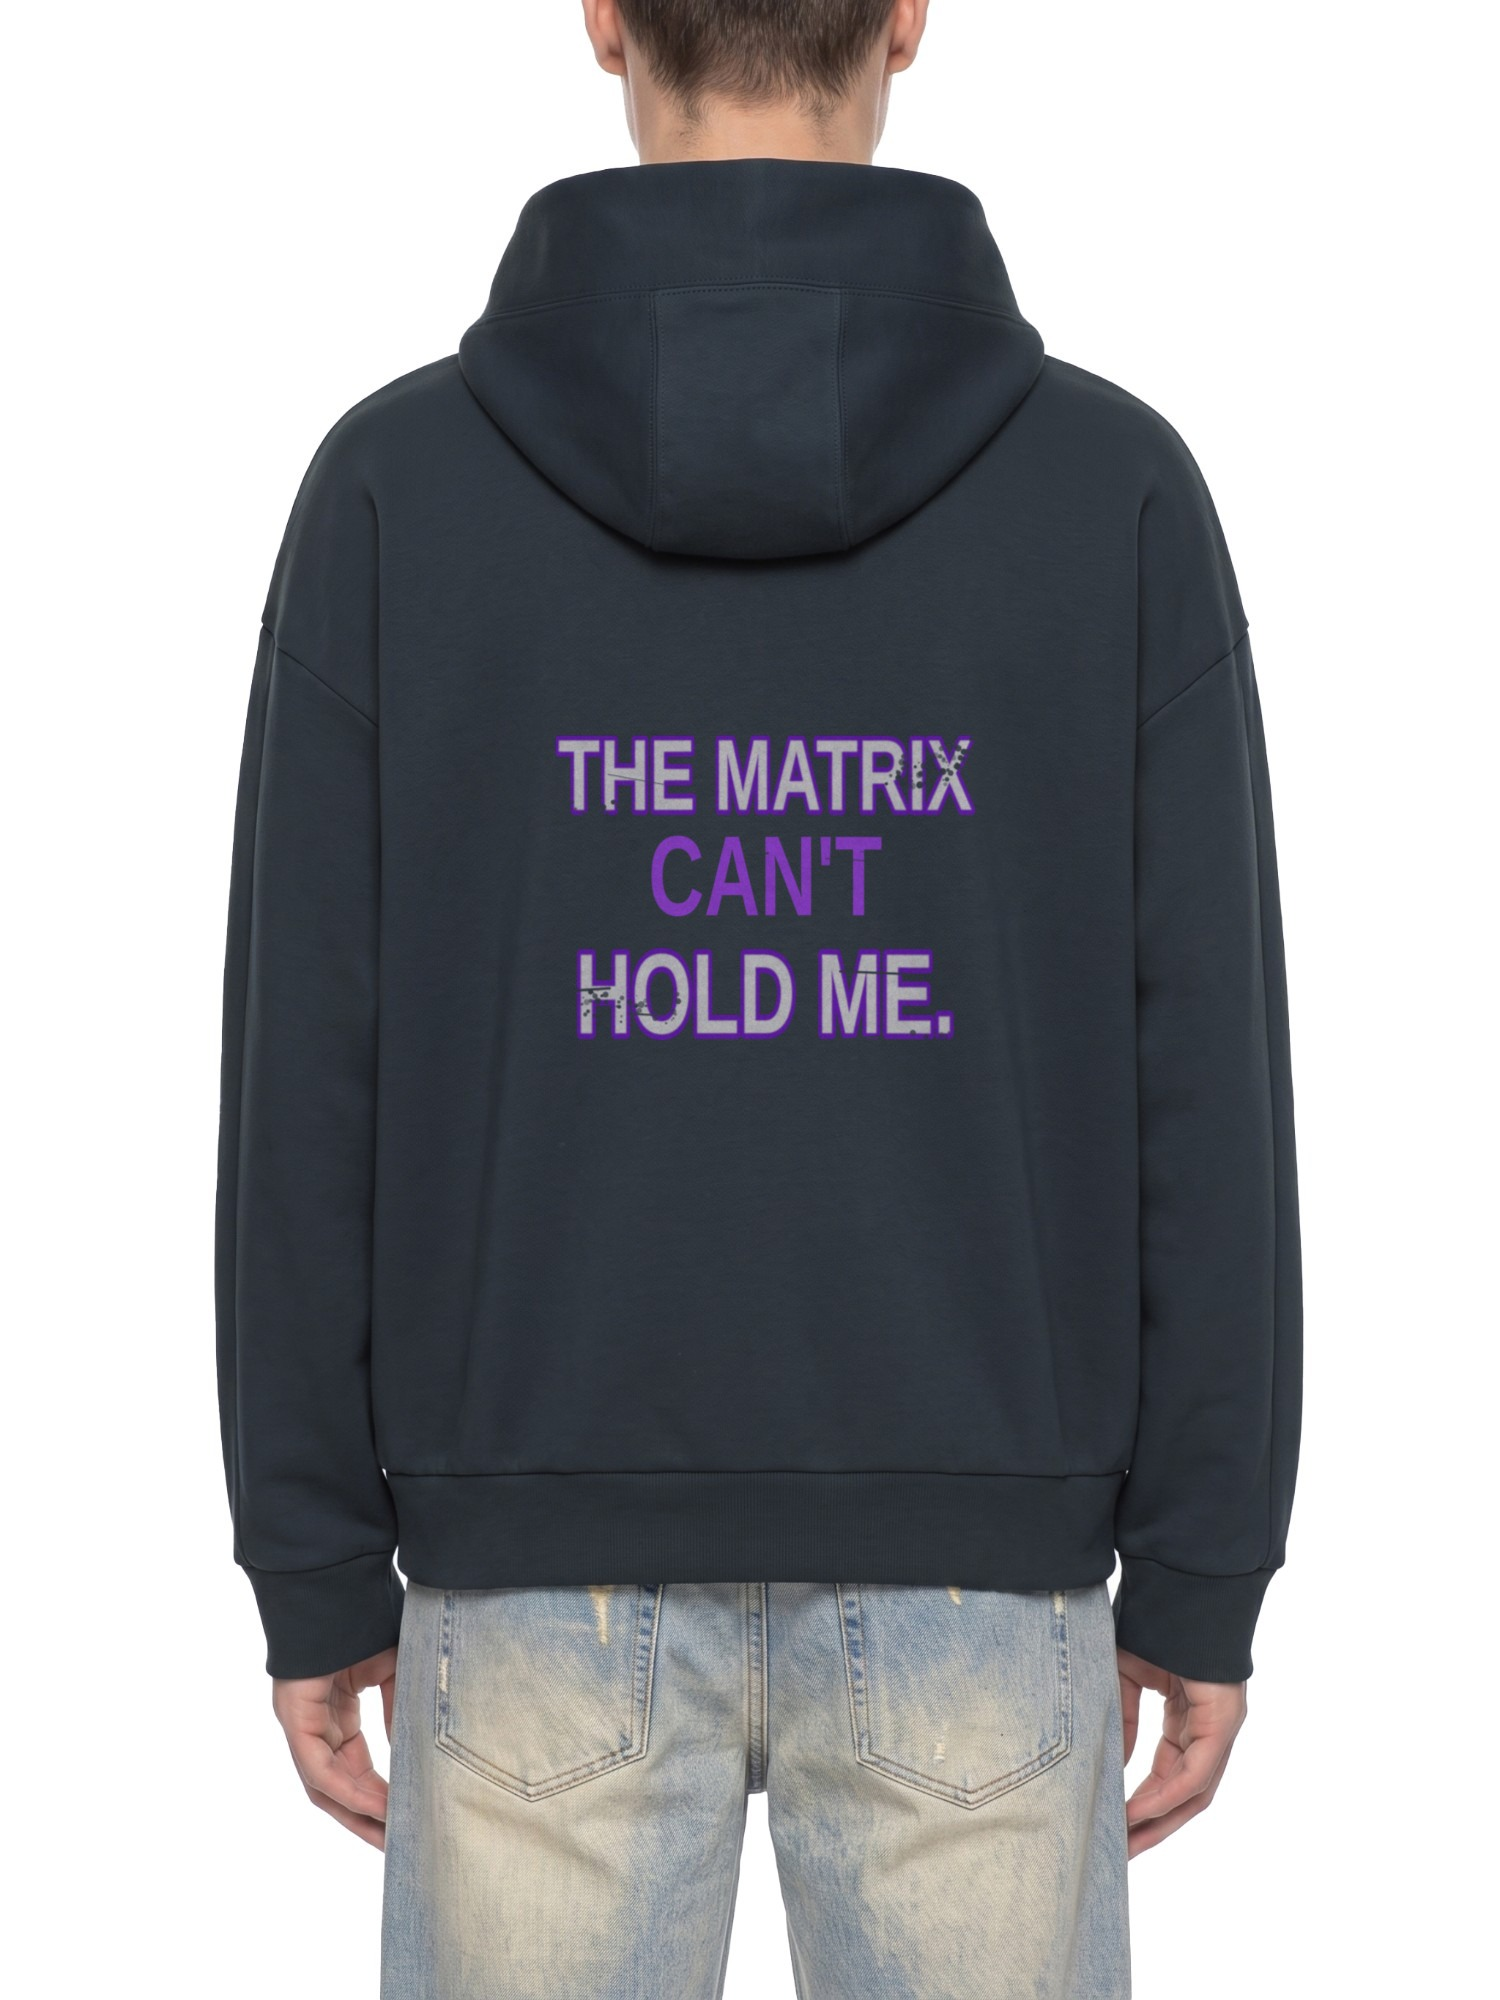
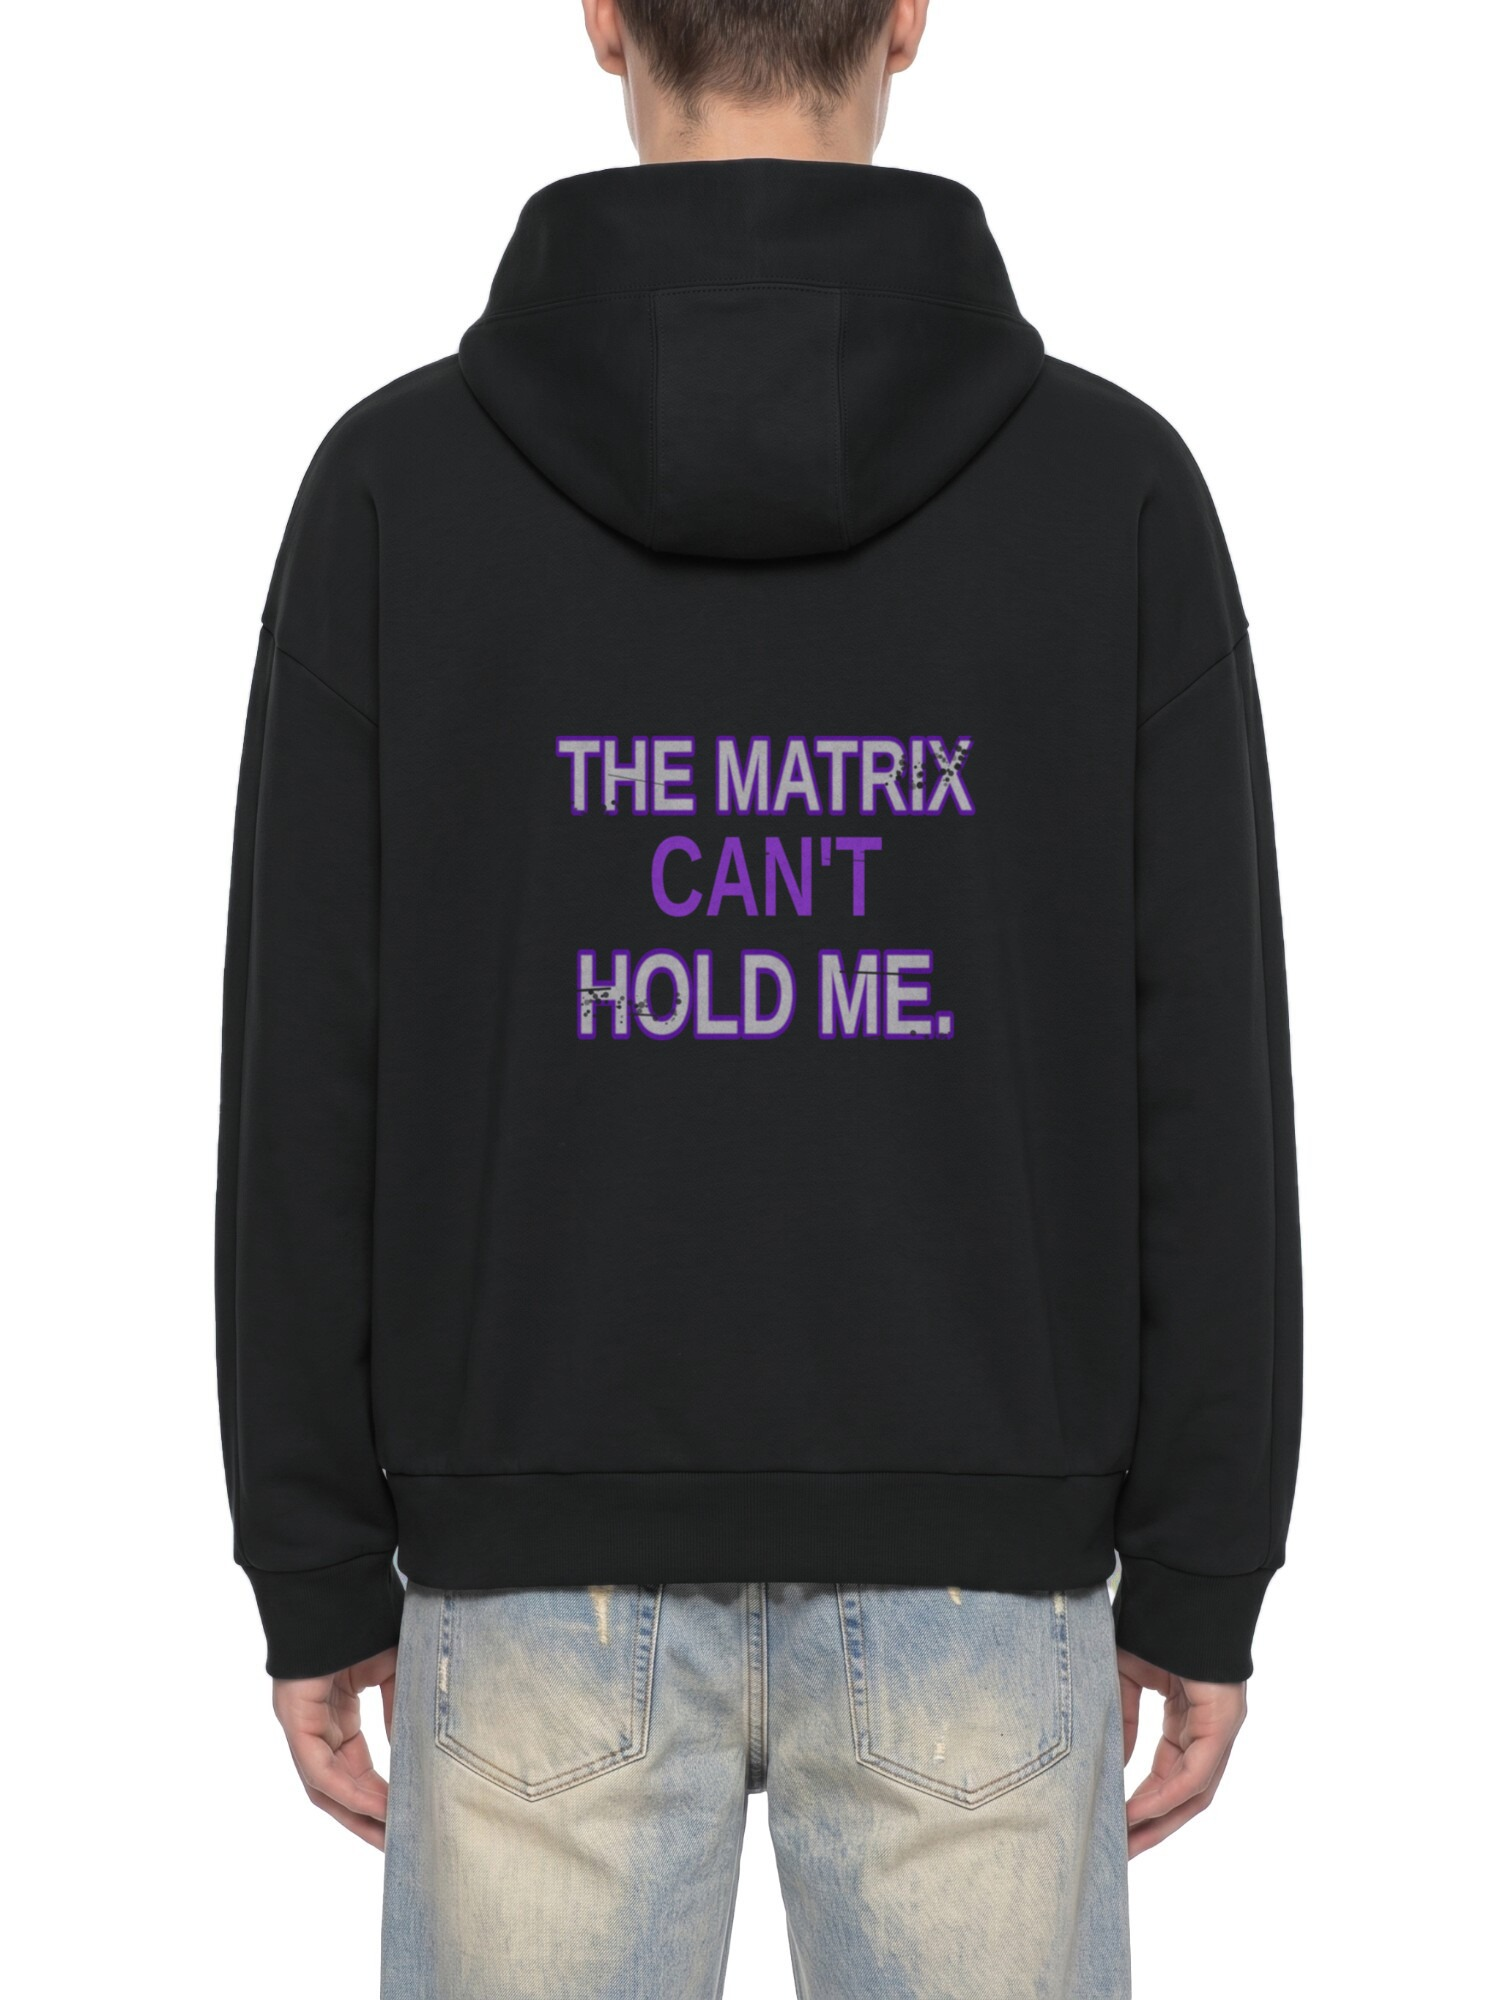
Les 042 (5.5) afgerond: modelfoto's zwart, batch compleet
Claude-Session: https://claude.ai/code/session_01VxmfntShTqejzUpaLZDbQH

diff --git a/studentenpakket-v16/mijn-project/content/batch/05-review.md b/studentenpakket-v16/mijn-project/content/batch/05-review.md
@@ -1,0 +1,6 @@
+# Review · Les 042 (5.5)
+- Batch: 3 reels (01), carrousel 6 slides (02 + carrousel/*.png), 3 ad-concepten (03), assets + volgorde (04).
+- Uitgewerkt: carrousel + A3 als beeld; productfoto-mockups op Tapstitch-basisfoto's (foto/), modelfoto's hoodie naar zwart.
+- Feedback student verwerkt: hoodies realistischer → realer.sh v1/v2 → echte productfoto's als basis; modelfoto's zwart.
+- Open: model met donkere huidskleur/eigen character — niet gedaan door de huid van het bestaande model te veranderen; route = eigen fotoshoot of AI-model (Higgsfield, credits, label AI). Gebruiksrechten Tapstitch-foto's bevestigen. R1/R2/A1/A2 wachten op opnames.
+- Niets gepubliceerd.

diff --git a/studentenpakket-v16/werkkaarten/mijn-voortgang.md b/studentenpakket-v16/werkkaarten/mijn-voortgang.md
@@ -21,3 +21,4 @@
 | N22 | 2026-10-02-01 | outputs/N22/2026-10-02-01/clipselectie.md | 3 Reels-clips met eigen context, proefexports | completed | Les 040 |
 | N23 | 2026-10-02-01 | outputs/N23/2026-10-02-01/video-analyse-vergelijking.md | Clip 2 geanalyseerd, v2 (crop + prijs later), waarneming vs hypothese | completed | Les 041 |
 | 5.4 | 2026-10-02-01 | outputs/5.4/2026-10-02-01/content/productvideo/ | Productvideo 11,8 s (lokale route), editors niet uitgevoerd | completed | Les 042 |
+| 5.5 | 2026-10-02-01 | outputs/5.5/2026-10-02-01/content/batch/ | Contentbatch + carrousel/ad beelden + productfoto-mockups | completed | Les 043 |

diff --git a/studentenpakket-v16/mijn-project/brand/mockups/bases/HERKOMST.md b/studentenpakket-v16/mijn-project/brand/mockups/bases/HERKOMST.md
@@ -2,3 +2,4 @@
 tapstitch-1..5.jpg — aangeleverd door student (2026-10-02), blanke Tapstitch-productfoto's (flat voor/achter, model voor/achter/zij).
 Gebruik: als ondergrond voor eigen mockups via foto-mockup.sh. Gebruiksrechten van leveranciersfoto's voor publicatie: door student te bevestigen bij Tapstitch.
 Let op: modelfoto's tonen een antraciet/donkerblauwe blank, niet exact zwart.
+Update 2026-10-02: tapstitch-3/4/5-zwart.jpg = hoodie lokaal naar zwart gekleurd (masker op koele donkere tinten; huid/jeans ongemoeid).
